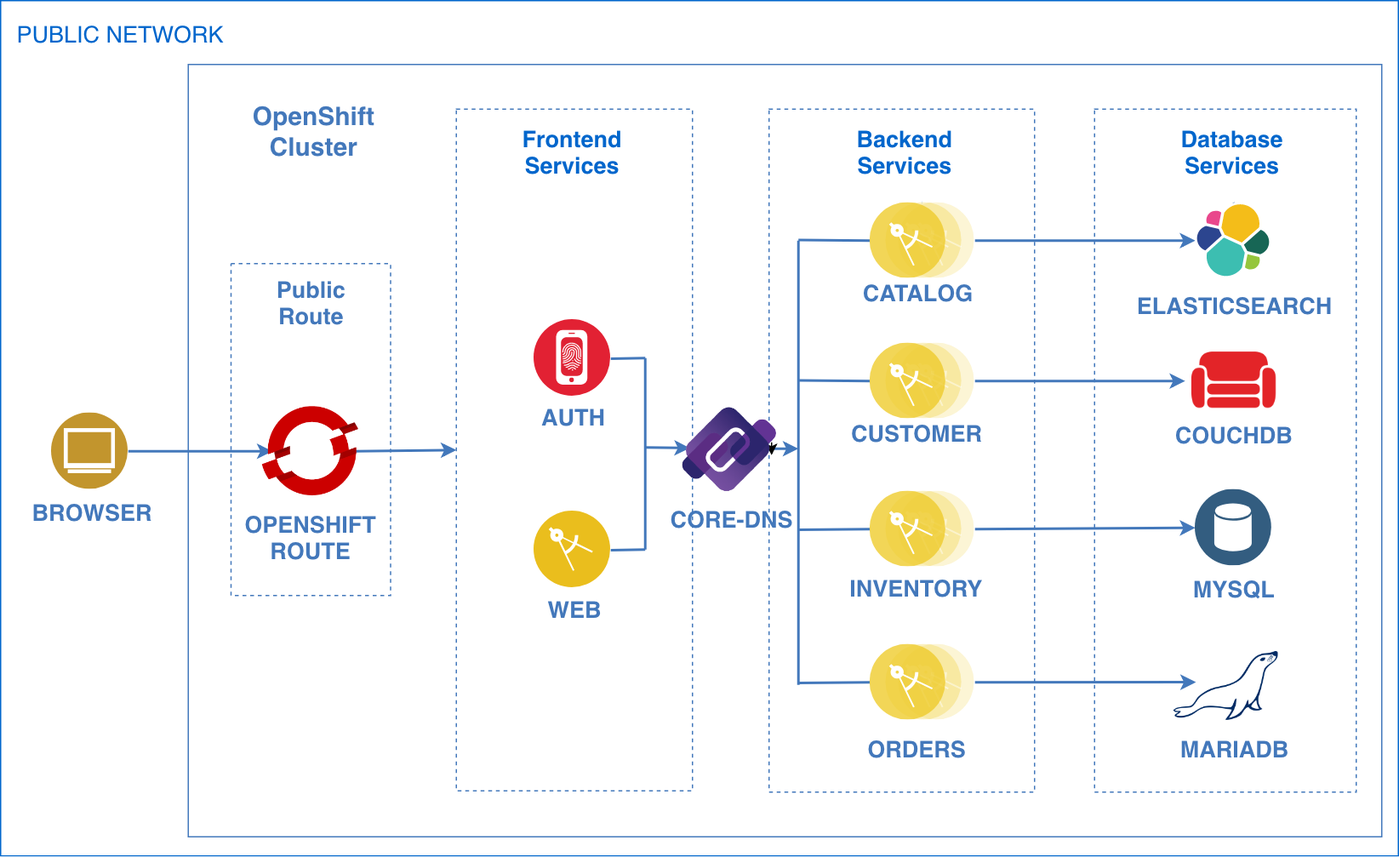
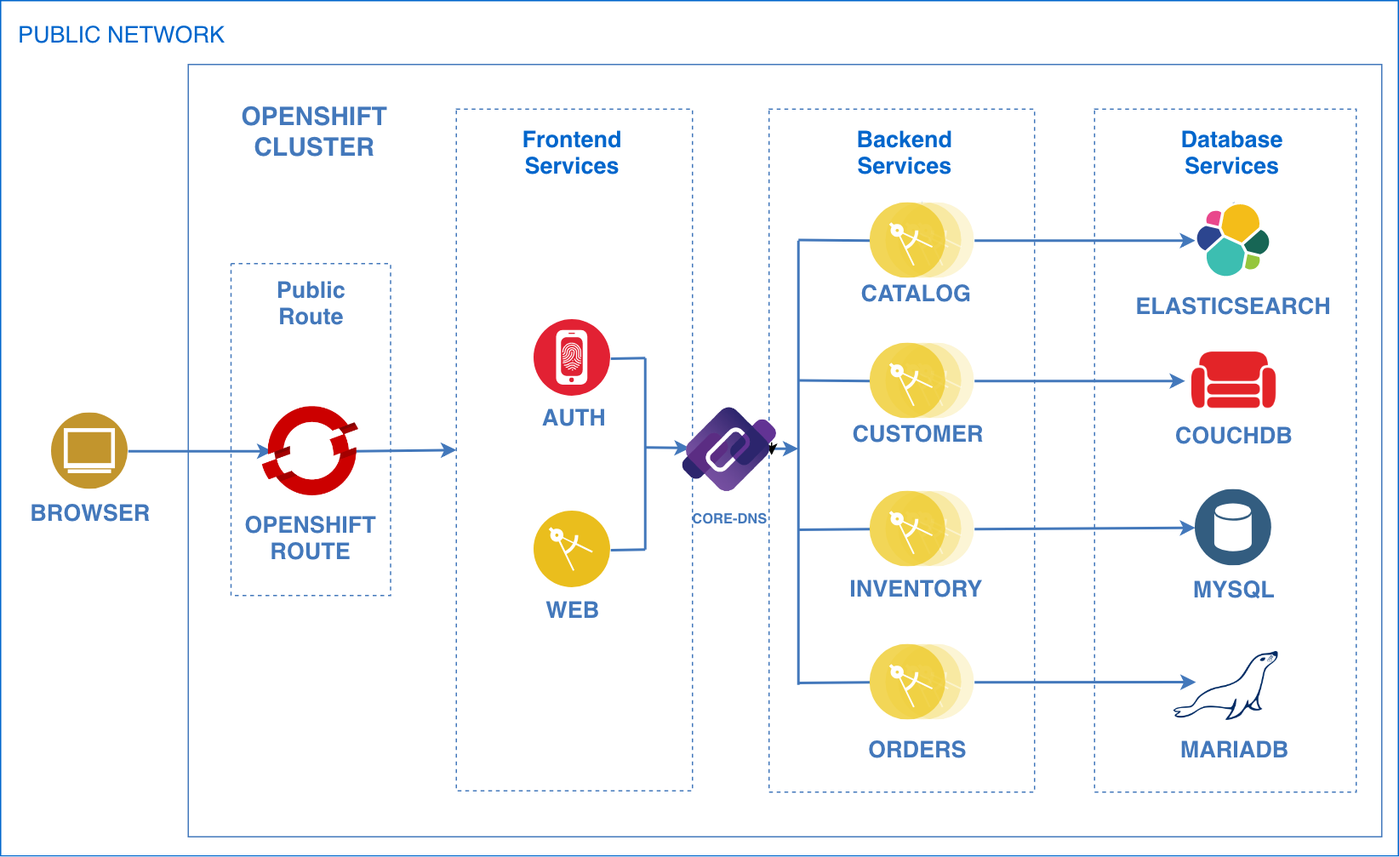
- Updated README - Added GIF to show the difference between original and openshift architectures

diff --git a/docs/openshift/README.md b/docs/openshift/README.md
@@ -1,65 +1,132 @@
-# Deploying the BlueCompute Microservices Reference Architecture to OpenShift
+# Deploying the BlueCompute Microservices Reference Architecture on OpenShift
 
 ## Table of Contents
   * [Introduction](#introduction)
+  * [Who Should Read this Document?](#who-should-read-this-document)
+  * [What You Will Learn](#what-you-will-learn)
   * [Requirements](#requirements)
-  * [Architecture](#architecture)
-  * [Adopting OpenShift Container Best Practices](#adopting-openshift-container-best-practices)
-    + [Creating Non-Root Docker Images](#creating-non-root-docker-images)
-  * [Deploy BlueCompute to OpenShift](#deploy-bluecompute-to-openshift)
-    + [1. Create `bluecompute` Project in OpenShift](#1-create-bluecompute-project-in-openshift)
-    + [2. Generate YAML Files from Helm Charts](#2-generate-yaml-files-from-helm-charts)
-    + [3. Remove Elasticsearch Privileged Containers](#3-remove-elasticsearch-privileged-containers)
-    + [4. Deploy BlueCompute to OpenShift Project](#4-deploy-bluecompute-to-openshift-project)
-    + [5. Expose the Web Application](#5-expose-the-web-application)
-    + [6. Validate the Web Application](#6-validate-the-web-application)
-  * [Cleanup](#cleanup)
+  * [Adopting Container Best Practices](#adopting-container-best-practices)
+    + [1. Creating Non-Root Docker Images](#1-creating-non-root-docker-images)
+    + [2. Updating Helm Charts](#2-updating-helm-charts)
+  * [Introducing BlueCompute Microservices Reference Architecture](#introducing-bluecompute-microservices-reference-architecture)
+    + [Adopting Container Best Practices on BlueCompute](#adopting-container-best-practices-on-bluecompute)
+    + [Deploy BlueCompute to OpenShift](#deploy-bluecompute-to-openshift)
+      - [1. Create `bluecompute` Project in OpenShift](#1-create-bluecompute-project-in-openshift)
+      - [2. Generate YAML Files from Helm Charts](#2-generate-yaml-files-from-helm-charts)
+      - [3. Remove Elasticsearch Privileged Containers](#3-remove-elasticsearch-privileged-containers)
+      - [4. Deploy BlueCompute to OpenShift Project](#4-deploy-bluecompute-to-openshift-project)
+      - [5. Expose the Web Application](#5-expose-the-web-application)
+      - [6. Validate the Web Application](#6-validate-the-web-application)
+    + [Cleanup](#cleanup)
   * [Conclusion](#conclusion)
 
 ## Introduction
 [OpenShift](https://learn.openshift.com/) is a Kubernetes distribution from RedHat that is loaded with features that make developers' lives easier. Features such as strict security policies, routes, ImageStreams, integrated Jenkins, and many more features make OpenShift a well-rounded platform that's ready for production compared to vanilla Kubernetes, on which you would have to implement or put together all those features yourself.
 
-However, there is one key feature that Kubernetes supports and OpenShift doesn't, at least officially, and that's the ability to deploy Helm charts. Helm is Kubernetes official package manager, which uses a sophisticated template engine and package versioning, is much more flexible than OpenShift templates. On top of that, the Helm community has contributed a great amount of Helm charts for common applications like Jenkins, Redis, and MySQL (among many others) that have been battle tested. These charts make vanilla Kubernetes much more appealing as it makes standing up an entire software stack much easier.
+However, there is one key feature that Kubernetes supports and OpenShift doesn't, at least officially, and that's the ability to deploy Helm charts. Helm is Kubernetes official package manager, which uses a sophisticated template engine and package versioning, is much more flexible than OpenShift templates. On top of that, the Helm community has contributed a great amount of Helm charts for common applications like Jenkins, Redis, and MySQL (among many others) that have been battle tested. [**IBM Cloud Private**](https://www.ibm.com/cloud/private), a Kubernetes-based enterprise platform for containers, has full support for Helm and the community charts. It leverages Helm to create a UI-based catalog system that makes it easier to explore the community Helm charts. The catalog also lets you install/uninstall Helm charts with just a couple clicks, which makes it much easier to stand up an entire software stack.
 
 The problem with the community Helm Charts is that some of them deploy containers with privileged access, which is not supported by OpenShift by default. Also, Helm's current architecture (Tiller component installed as Pod with huge permissions) isn’t compatible with more strict security polices in OpenShift.
 
-Not all is lost, however, as there are workarounds that we can use that won't compromise best practices or security. In this document you will learn how to deploy all of the IBM Microservices Reference Architecture services (known as [`bluecompute-ce`](https://github.com/ibm-cloud-architecture/refarch-cloudnative-kubernetes/tree/spring)) into an OpenShift cluster by generating YAML files from the Helm charts and making a few tweaks in them.
+Not all is lost, however, as there are workarounds that we can use that won't compromise best practices or security. If you still require the ability to run Helm Charts on OpenShift, such as those for IBM Middleware Helm Charts, I recommend you try out [IBM Cloud Private on OpenShift](https://www.ibm.com/support/knowledgecenter/en/SSBS6K_3.1.2/supported_environments/openshift/overview.html) as it leverages the best of both IBM Cloud Private and OpenShift.
+
+Now, if you are set in going the pure OpenShift route, this document will walk you through converting existing Helm Charts into OpenShift compatible YAML files.
+
+## Who Should Read this Document?
+This document is for any Ops Engineers or Developers familiar with Kubernetes, Helm, and OpenShift who interested in deploying the contents of existing Helm Charts on OpenShift, mostly to save time standing up a software stack by leveraging the hard work of the community and maintaining container best practices.
+
+## What You Will Learn
+In this document you will learn how to deploy the contents of an existing Helm chart into an OpenShift cluster by doing the following:
+* Converting existing Docker images to run as non-root.
+* Generating OpenShift-compatible YAML resource files from existing Helm Charts.
+* Deploying the resource files into an OpenShift project.
+* Exposing the services using OpenShift Routes.
+
+The first half of this document will be spent learning the basics of adopting container best practices for writing Dockerfiles that work on OpenShift. The second half will be spent learning about the **IBM Microservices Reference Architecture** Helm Charts (known as [`bluecompute-ce`](https://github.com/ibm-cloud-architecture/refarch-cloudnative-kubernetes/tree/spring)), which we will use as reference for converting existing Helm Charts to OpenShift-compatible YAML files.
+
+**NOTE:** Assuming you have gone through all the Requirements in the following section, going through this document and its examples will take you approximately 30-45 minutes.
 
 ## Requirements
+* Basic knowledge of [Docker containers](https://docs.docker.com/), [Kubernetes](https://www.katacoda.com/courses/kubernetes), [Helm](https://www.katacoda.com/courses/kubernetes/helm-package-manager) and [OpenShift](https://learn.openshift.com/).
 * OpenShift Cluster
-	+ Deploy a local OpenShift cluster using [Minishift](https://docs.okd.io/latest/minishift/getting-started/index.html).
-	+ The Minishift installation should also install the OpenShift CLI `oc`.
-* [kubectl](https://kubernetes.io/docs/user-guide/kubectl-overview/) (Kubernetes CLI) - Follow the instructions [here](https://kubernetes.io/docs/tasks/tools/install-kubectl/) to install it on your platform.
-* [helm](https://github.com/kubernetes/helm) (Kubernetes package manager) - Follow the instructions [here](https://github.com/kubernetes/helm/blob/master/docs/install.md) to install it on your platform.
+  + Deploy a local OpenShift cluster using [Minishift](https://docs.okd.io/latest/minishift/getting-started/index.html).
+  + The Minishift installation should also install the OpenShift CLI `oc`.
+* [kubectl](https://kubernetes.io/docs/user-guide/kubectl-overview/) (Kubernetes CLI)
+  + Follow the instructions [here](https://kubernetes.io/docs/tasks/tools/install-kubectl/) to install it on your platform.
+* [helm](https://github.com/kubernetes/helm) (Kubernetes package manager)
+  + Follow the instructions [here](https://github.com/kubernetes/helm/blob/master/docs/install.md) to install it on your platform.
 
-## Architecture
-![Architecture](../../static/imgs/diagram_bluecompute_openshift.png)
+## Adopting Container Best Practices
+In the following sections, you will learn how to modify Dockerfiles and Helm Charts to run as non-root user, which is a container best practice that will work on Kubernetes-based platforms like OpenShift and IBM Cloud Private.
 
-As you can see, the application architecture hasn't changed much (check out original architecture [here](https://github.com/ibm-cloud-architecture/refarch-cloudnative-kubernetes/tree/spring#introduction)) other than using an `OpenShift Route` used to expose the web application outside the cluster instead of Kubernetes `Ingress` or `NodePort`. Also, instead of using `kube-dns` for service discovery, OpenShift uses `core-dns`.
+### 1. Creating Non-Root Docker Images
+OpenShift enforces security best practices for containers out of the box, such as requiring Docker images to run as non-root and disallowing privileged containers, which can be harmful to the OpenShift cluster if they are compromised. In this section you will learn how to make Spring Boot based Dockerfiles run as non-root.
 
-Now that we understand the basic architecture, let's move on to learning how to deploy `bluecompute-ce` into OpenShift.
+Let's look at the Dockerfile for `bluecompute-ce's` `inventory` service for reference. You don't need to worry about what the service does as we are going to focus on how the Dockerfile packages the code, followed by how to make it run as non-root. To learn more about Dockerfiles and their syntax, check out the official documentation [here](https://docs.docker.com/engine/reference/builder/).
 
-## Adopting OpenShift Container Best Practices
-The great thing about OpenShift is that it enforces security best practices for containers out of the box, such as requiring Docker images to run as non-root and disallowing privileged containers, which can be harmful to the OpenShift cluster if not used properly.
+```Dockerfile
+# STAGE: Build
+FROM gradle:4.9.0-jdk8-alpine as builder
 
-After taking a look at what it would take for the `bluecompute-ce` services to adopt OpenShift best practices, here is an overview of what we encountered.
+# Create Working Directory
+ENV BUILD_DIR=/home/gradle/app/
+RUN mkdir $BUILD_DIR
+WORKDIR $BUILD_DIR
 
-* Though the BlueCompute Docker images were built with official `openjdk` images, the images run as the `root` user.
-	+ We needed to edit the Dockerfiles to run as non-root.
-* Also, the community helm chart for `Elasticsearch` has 2 init containers that increase the virtual memory `max_map_count` and disable memory swapping before starting the `Elasticsearch` service.
-	+ These operations require the init containers to be privileged, which is not allowed in OpenShift.
-	+ Since this is a community chart, there is nothing we can do to edit the chart directly.
-	+ Therefore, in a later section, we will explain how to get rid of these containers after generating YAML files out of the helm charts.
-* The Docker Images for `mysql`, `couchdb`, and `mariadb` Helm Charts already run as non-root, so no changes are required for these.
+# Download Dependencies
+COPY build.gradle $BUILD_DIR
+RUN gradle build -x :bootRepackage -x test --continue
 
-Luckily, the changes to be made were quite simple. We just had to convert all the `bluecompute-ce` services's Docker images to run as non-root, which we will go over in the next section.
+# Copy Code Over and Build jar
+COPY src src
+RUN gradle build -x test
 
-### Creating Non-Root Docker Images
-As mentioned earlier, the official base `openjdk` Docker images that we used to build the BlueCompute microservices run as `root`. To overcome this, we created the `blue` user in the Dockerfiles and used it to run the application as non-root.
+# STAGE: Deploy
+FROM openjdk:8-jre-alpine
 
-However, I realized that the application's `jar` file was running from the `/` folder, which is owned by the `root` user and cannot be owned by any other user. To overcome this we created the `/app` folder, put the jar file in there and changed the folder's permissions to be owned by the `blue` user and the `root` group. The `root` group, which does not have root privileges and is to not be confused by the `sudoers`, is necessary since OpenShift may launch the container with an arbitrary user id that belongs to the `root` group. If the app folder is also owned by the `root` group, then an arbitrary user (with non-root privileges) in the `root` group will be able to read and execute the files in that folder, which is what we want security-wise.
+# Install Extra Packages
+RUN apk --no-cache update \
+ && apk add jq bash bc ca-certificates curl \
+ && update-ca-certificates
 
-Here is the `inventory` Dockerfile, which shows the changes mentioned above:
+# Create app directory
+ENV APP_HOME=/app
+RUN mkdir -p $APP_HOME/scripts
+WORKDIR $APP_HOME
+
+# Copy jar file over from builder stage
+COPY --from=builder /home/gradle/app/build/libs/micro-inventory-0.0.1.jar $APP_HOME
+RUN mv ./micro-inventory-0.0.1.jar app.jar
+
+COPY startup.sh startup.sh
+COPY scripts/max_heap.sh scripts/
+
+EXPOSE 8080 8090
+ENTRYPOINT ["./startup.sh"]
+```
+
+The first thing you will notice is that this is a 2-stage [Multi-Stage Dockerfile](https://docs.docker.com/develop/develop-images/multistage-build/) based on the two `FROM` instructions in Line 2 and 18. In the first stage (Lines 1-15), we are using the official `gradle:4.9.0-jdk8-alpine` Docker image to download Gradle dependencies, build and test the application's code to generate a `jar` file. In the second stage (Lines 17-38) we are using the official `openjdk:8-jre-alpine` Docker image to copy over the generated `jar` file from the previous stage, copy over the Docker entry-point script from source, and also expose the application ports.
+
+**NOTE:** The main benefit of using the multi-stage approach for us is that it results in a Docker image with smaller layers. To learn more about the benefits of a multi-stage Dockerfile, read the official documentation [here](https://docs.docker.com/develop/develop-images/multistage-build/).
+
+The above Dockerfile is pretty standard for Spring Boot services and it is what we used for all the services in our Microservices Reference Architecture application. The only thing that remains to make the Dockerfiles compatible with OpenShift security policies (and follow container best practices in general) is to create a non-root user to run the application process, which the base `openjdk` Docker image doesn't do by default. To do so, we have to add the following lines before the `EXPOSE` instruction:
+```Dockerfile
+# Create user, chown, and chmod
+RUN adduser -u 2000 -G root -D blue \
+  && chown -R 2000:0 $APP_HOME \
+  && chmod -R u+x $APP_HOME/app.jar
+
+USER 2000
+```
+
+Here is a quick breakdown of the lines above:
+* The `adduser -u 2000 -G root -D blue` line creates the `blue` user with a user id of `2000` and adds it to the `root` group (not to be confused with `sudoers`).
+  + OpenShift requires that a numeric user is used in the `USER` declaration instead of the user name. This allows OpenShift to validate the authority the image is attempting to run with and prevent running images that are trying to run as root (as mentioned in the [OpenShift-Specific Guidelines](https://docs.openshift.com/enterprise/3.0/creating_images/guidelines.html#openshift-specific-guidelines)).
+* The `chown -R 2000:0 $APP_HOME` line changes the ownership of the app home folder to user `2000` (created above) and the `0` group (which is the `root` group).
+  + This line will allow an arbitrary numeric user, assigned by OpenShift when launching the container, to start the application process.
+* The `chmod -R u+x $APP_HOME/app.jar` assigns execution permissions for application jar file to the user, which can be an arbitrary numeric user in the `root` group.
+
+Fortunately, that's all the required changes to get this Docker image to run on OpenShift. Finally, here is a snippet of the complete Dockerfile.
+
 ```Dockerfile
 # STAGE: Build
 FROM gradle:4.9.0-jdk8-alpine as builder
@@ -99,8 +166,8 @@ COPY scripts/max_heap.sh scripts/
 
 # Create user, chown, and chmod
 RUN adduser -u 2000 -G root -D blue \
-	&& chown -R 2000:0 $APP_HOME \
-	&& chmod -R u+x $APP_HOME/app.jar
+  && chown -R 2000:0 $APP_HOME \
+  && chmod -R u+x $APP_HOME/app.jar
 
 USER 2000
 
@@ -108,13 +175,82 @@ EXPOSE 8080 8090
 ENTRYPOINT ["./startup.sh"]
 ```
 
-Notice the `# Create app directory` section where we define and create the `/app` folder. Also notice the `# Create user, chown, and chmod` section where we create the `blue` user (with numeric value `2000`) and assign it to the `root` group (again not to be confused with `sudoers`), and change the permissions of the `/app` folder to be owned by `blue` and the `root` group. Lastly, in the `USER 2000` line we specify that the image should run as the numeric user `2000`. OpenShift requires that a numeric user is used in the `USER` declaration instead of the user name. This allows OpenShift to validate the authority the image is attempting to run with and prevent running images that are trying to run as root (as mentioned in the [OpenShift-Specific Guidelines](https://docs.openshift.com/enterprise/3.0/creating_images/guidelines.html#openshift-specific-guidelines)).
+Now that we learned how to make non-root Dockerfiles, all that remains is to build the Docker image and push it to a Docker registry, such as [IBM Cloud Container Registry](https://www.ibm.com/cloud/container-registry) or Docker Hub, which you can do with the following commands, assuming you are logged in to your Docker registry:
 
-The changes above were made to all the Dockerfiles in the `Spring Boot` services (`inventory`, `catalog`, `customer`, `orders`, and `auth`). The `web` service adopted the same concepts but tailored for `Node.JS`.
+```bash
+# CD to Dockerfile location
+cd /path/to/dockerfile/folder
 
-Now that we are aware of these changes, which have already been checked into each service's git repository, let's proceed with deploying all services to OpenShift.
+# Build Docker Image
+docker build -t ${REGISTRY_LOCATION}/bluecompute-inventory:openshift .
 
-## Deploy BlueCompute to OpenShift
+# Push image to Docker Registry
+docker push ${REGISTRY_LOCATION}/bluecompute-inventory:openshift
+```
+
+Where `${REGISTRY_LOCATION}` is the location of your Docker Registry and `openshift` is the new tag value for the image.
+
+### 2. Updating Helm Charts
+Before generating YAML from the Helm Charts, we have to update the Helm charts with the newly-built Docker image. All it takes to do is to edit the `values.yaml` file in the chart and change the image's `tag` value to that of the new Docker image. For example, here is a condensed version of the `values.yaml` file for `bluecompute-ce`'s `inventory` Helm chart:
+```yaml
+replicaCount: 1
+
+image:
+  repository: ibmcase/bluecompute-inventory
+  tag: 0.6.0
+  pullPolicy: Always
+```
+
+The `image.repository` field represents the Docker image location for this chart (Dockerhub in this case) and the `image.tag` field represents the Docker image's tag. To update the tag value to `openshift` just replace the `0.6.0` value in `image.tag` to `openshift`, which will result in the following YAML:
+```yaml
+replicaCount: 1
+
+image:
+  repository: ibmcase/bluecompute-inventory
+  tag: openshift
+  pullPolicy: Always
+```
+
+Generally speaking, this is all you need to update a Helm chart with an OpenShift compatible non-root Docker image. Most community Helm charts don't have complicated configurations that require root privileges. For those that do, they usually come in the form of one-off init containers that perform some administrative tasks on the container hosts. Usually, the workaround for those is to remove those containers from the charts themselves and perform those actions on the host yourself before deploying the charts. However, with anything in software engineering, the changes you will have to make will depend on the chart and the workload itself and must be addressed individually.
+
+With that knowledge in mind, let's move on to going over how we adapted the `bluecompute-ce` application to run its processes as non-root in order to work on OpenShift.
+
+## Introducing BlueCompute Microservices Reference Architecture
+BlueCompute (known as `bluecompute-ce`) is IBM's Cloud-native Microservices Reference Architecture, which is used to demonstrate how clients can easily deploy and run a complex microservices application on Kubernetes based platforms such as [IBM Cloud Kubernetes Service](https://www.ibm.com/cloud/container-service) and [IBM Cloud Private](https://www.ibm.com/cloud/private), which are public and private cloud based, respectively.
+
+The application itself is an [**Angular JS 2**](https://angular.io/) web front-end that communicates with multiple [**Java Spring Boot**](https://spring.io/projects/spring-boot) microservices. Each of those backend microservices communicates with its own datastore, which, in typical microservices fashion, can be whatever the developers choose to be the best tool for the job. In `bluecompute-ce`'s case, the datastores are `Elasticsearch`, `CouchDB`, `MySQL`, and `MariaDB`.
+
+Each microservice has its own git repository, which contains not only the application source, but also its respective Dockerfile and Helm chart. All of the datastores Helm charts were taken from the community [Helm Chart catalog](https://github.com/helm/charts) to demonstrate that existing applications can leverage community-made Helm charts for datastores.
+
+Lastly, to make deploying the entire application easier, we created the `bluecompute-ce` Helm chart that declares all the individual Helm charts (including the community ones) as dependencies, which lets us deploys all of them at once with a single command. Deploying the application this way takes us 2-5 minutes compared to the 30-45 minutes it used to take us before we adopted Kubernetes.
+
+Anyways, now that you know the overall architecture of `bluecompute-ce` chart, let's examine in the following GIF diagram how the architecture is going to change if we are to deploy it on OpenShift:
+
+![Architecture](../../static/imgs/diagram_bluecompute_openshift.gif)
+
+As you can see from the animation above, the application architecture hasn't changed much (check out original architecture [here](https://github.com/ibm-cloud-architecture/refarch-cloudnative-kubernetes/tree/spring#introduction)) other than using an `OpenShift Route` to expose the web application outside the cluster instead of Kubernetes `Ingress` or `NodePort`. Also, instead of using `kube-dns` for service discovery, OpenShift uses `core-dns`, which we are not concerned with as developers.
+
+Now that we understand the basic architecture, let's move on to learning how to deploy `bluecompute-ce` into OpenShift.
+
+### Adopting Container Best Practices on BlueCompute
+As mentioned before, OpenShift enforces security best practices for containers out of the box, such as requiring Docker images to run as non-root and disallowing privileged containers, which can be harmful to the OpenShift cluster if they are compromised.
+
+After taking a look at what it would take for the `bluecompute-ce` services to adopt container best practices, here is an overview of what we encountered.
+
+* Though the BlueCompute Docker images were built with official `openjdk` images, the images run as the `root` user.
+  + We needed to edit the Dockerfiles to run as non-root, as shown in a previous section.
+* Also, the community helm chart for `Elasticsearch` has 2 init containers that increase the virtual memory `max_map_count` and disable memory swapping before starting the `Elasticsearch` service.
+  + These operations require the init containers to be privileged, which is not allowed in OpenShift.
+  + Since this is a community chart, there is nothing we can do to edit the chart directly.
+  + Therefore, in a later section, we will explain how to get rid of these containers after generating YAML files out of the helm charts.
+  + **NOTE:** The actual `elasticsearch` docker image (not the init container one) runs as non-root, so no need to rebuild that one.
+* The Docker Images for `mysql`, `couchdb`, and `mariadb` Helm Charts already run as non-root, so no changes are required for these.
+
+Luckily, the changes to be made were quite simple. We just had to convert all the `bluecompute-ce` services's Docker images to run as non-root, which we already covered how to do in an earlier section, so no need to cover that again. As an FYI, the changes were made to all the Dockerfiles in the `Spring Boot` services (`inventory`, `catalog`, `customer`, `orders`, and `auth`). The `web` service adopted the same concepts but tailored for `Node.JS`.
+
+Now that we are aware of these changes, which have already been checked into each service's git repository, let's proceed with deploying all of the services to OpenShift.
+
+### Deploy BlueCompute to OpenShift
 Now that we are aware of all the changes that `bluecompute-ce` had to go through to adopt not just OpenShift but containers best practices, we can proceed with deploying `bluecompute-ce` into OpenShift.
 
 **NOTE:** This section assumes that you have a working OpenShift cluster.
@@ -123,9 +259,9 @@ We are not going to deploy the Helm charts themselves into OpenShift. Though it 
 
 There is also the option of converting the Helm Charts into [OpenShift Templates](https://docs.okd.io/latest/dev_guide/templates.html), but that would require a great amount of tedious work that's beyond the scope of this document.
 
-The main goal is to get `bluecompute-ce` deployed into an OpenShift cluster as effortlessly and with as many best practices as possible. So, in this document we will be converting the `bluecompute-ce` Helm chart and all of its dependency charts into regular Kubernetes YAML files using the `helm template` function to and deploy them into the OpenShift cluster.
+The main goal is to get `bluecompute-ce` deployed into an OpenShift cluster as effortlessly and with as many best practices as possible. So, in this document we will be converting the `bluecompute-ce` Helm chart and all of its dependency charts into regular Kubernetes YAML files by using the `helm template` function to and deploy them into the OpenShift cluster.
 
-### 1. Create `bluecompute` Project in OpenShift
+#### 1. Create `bluecompute` Project in OpenShift
 First thing we need to do is log into the OpenShift cluster:
 ```bash
 oc login
@@ -136,7 +272,7 @@ Once that's done, then we must create a new project (OpenShift parlance for Kube
 oc new-project bluecompute
 ```
 
-### 2. Generate YAML Files from Helm Charts
+#### 2. Generate YAML Files from Helm Charts
 Now we are ready to generate the Kubernetes YAML files from the Helm Charts. To do so, runt he commands below:
 ```bash
 # Make bluecompute-os directory where the YAML files will go
@@ -155,7 +291,7 @@ Where:
 
 The above commands generated YAML files that can be deployed into OpenShift. However, there is still some work to be done, which will be covered in the next section.
 
-### 3. Remove Elasticsearch Privileged Containers
+#### 3. Remove Elasticsearch Privileged Containers
 The last thing we need to do before deploying the `bluecompute-ce` YAML files is remove the init containers from the `Elasticsearch` community helm chart. These containers are used to increase the virtual memory `max_map_count` and disable memory swapping before starting the `Elasticsearch` service, which require privileged access.
 
 Since privileged containers are not allowed in OpenShift and performing those operations manually is beyond the scope of this document, we will remove the containers to allow the `Elasticsearch` containers to start. Depending on your environment, if Elasticsearch crashes or fails to start, you may be required to increase the virtual memory and disable swapping manually on each OpenShift node as explained by Elastic here:
@@ -175,7 +311,7 @@ Make sure to delete the entirety of the `initContainers` section, including both
 
 Now you should be ready to deploy all of `bluecompute-ce` into the `bluecompute` OpenShift Project!
 
-### 4. Deploy BlueCompute to OpenShift Project
+#### 4. Deploy BlueCompute to OpenShift Project
 To deploy the `bluecompute-ce` YAML files, use the command below:
 ```bash
 oc apply --recursive --filename bluecompute-os
@@ -209,7 +345,7 @@ web-65d9fbc79-5lwdd                                1/1       Running     0      
 
 Now that all of the pods are available, it's time to expose the web service outside the OpenShift cluster in order to access the web application through a web browser.
 
-### 5. Expose the Web Application
+#### 5. Expose the Web Application
 OpenShift makes exposing the web service outside the cluster very easy by using the following command to create an OpenShift `route`, which is, if you will, OpenShift's version of Kubernetes `Ingress`:
 ```bash
 oc expose svc web
@@ -228,14 +364,14 @@ web       web-bluecompute.YOUR_CLUSTER_DOMAIN.com      web       http           
 
 Where `YOUR_CLUSTER_DOMAIN.com` is the OpenShift Cluster's domain name and `web-bluecompute` is the CNAME created for the web route.
 
-### 6. Validate the Web Application
+#### 6. Validate the Web Application
 To validate the application, open a browser window and enter the route URL from above and press enter. You should be able to see the web application's home page, as shown below.
 
 ![BlueCompute Detail](../../static/imgs/bluecompute_web_home.png?raw=true)
 
 You can reference [this link](https://github.com/ibm-cloud-architecture/refarch-cloudnative-bluecompute-web/tree/spring#validate-the-web-application) to validate the web application functionality. You should be able to see a catalog, be able to login, make orders, and see your orders listed in your profile (once you are logged in).
 
-## Cleanup
+### Cleanup
 To cleanup everything, run the following commands:
 ```bash
 # Delete route
@@ -246,16 +382,8 @@ oc delete --recursive --filename bluecompute-os
 ```
 
 ## Conclusion
-Congratulations, you were successfully able to deploy all `bluecompute-ce` microservices into an OpenShift cluster! Let's recap what we went over today:
-* Learned about container best practices, such as running a container as non-root
-* Created an OpenShift project to deploy `bluecompute-ce` into.
-* Generated Kubernetes YAML files out of the `bluecompute-ce` Helm Charts.
-* Deleted remaining privileged root containers from Elasticsearch YAML files.
-* Deployed all of `bluecompute-ce` service into OpenShift project.
-* Created an OpenShift route to expose the web application outside the cluster.
+Helm charts are not officially supported by OpenShift, therefore, the above approach is the closest you will get to deploying workloads that originated from Helm charts into OpenShift while leveraging container best practices.
 
-Unfortunately, Helm charts are not officially supported by OpenShift, therefore, the above approach is the closest you will get to deploying workloads that originated from Helm charts into OpenShift while leveraging OpenShift best practices.
-
-If you still require the ability to run Helm Charts on OpenShift, such as those for IBM Middleware Helm Charts, I recommend you try out [IBM Cloud Private on OpenShift](https://www.ibm.com/support/knowledgecenter/en/SSBS6K_3.1.0/supported_environments/openshift/overview.html).
+If you still require the ability to run Helm Charts on OpenShift, such as those for IBM Middleware Helm Charts, I recommend you try out [IBM Cloud Private on OpenShift](https://www.ibm.com/support/knowledgecenter/en/SSBS6K_3.1.2/supported_environments/openshift/overview.html).
 
 If you are set on the pure OpenShift path, I encourage you start converting the Kubernetes files we generated into [OpenShift Templates](https://docs.okd.io/latest/dev_guide/templates.html), which is the closest to a Helm Chart you will get in an OpenShift ecosystem.
